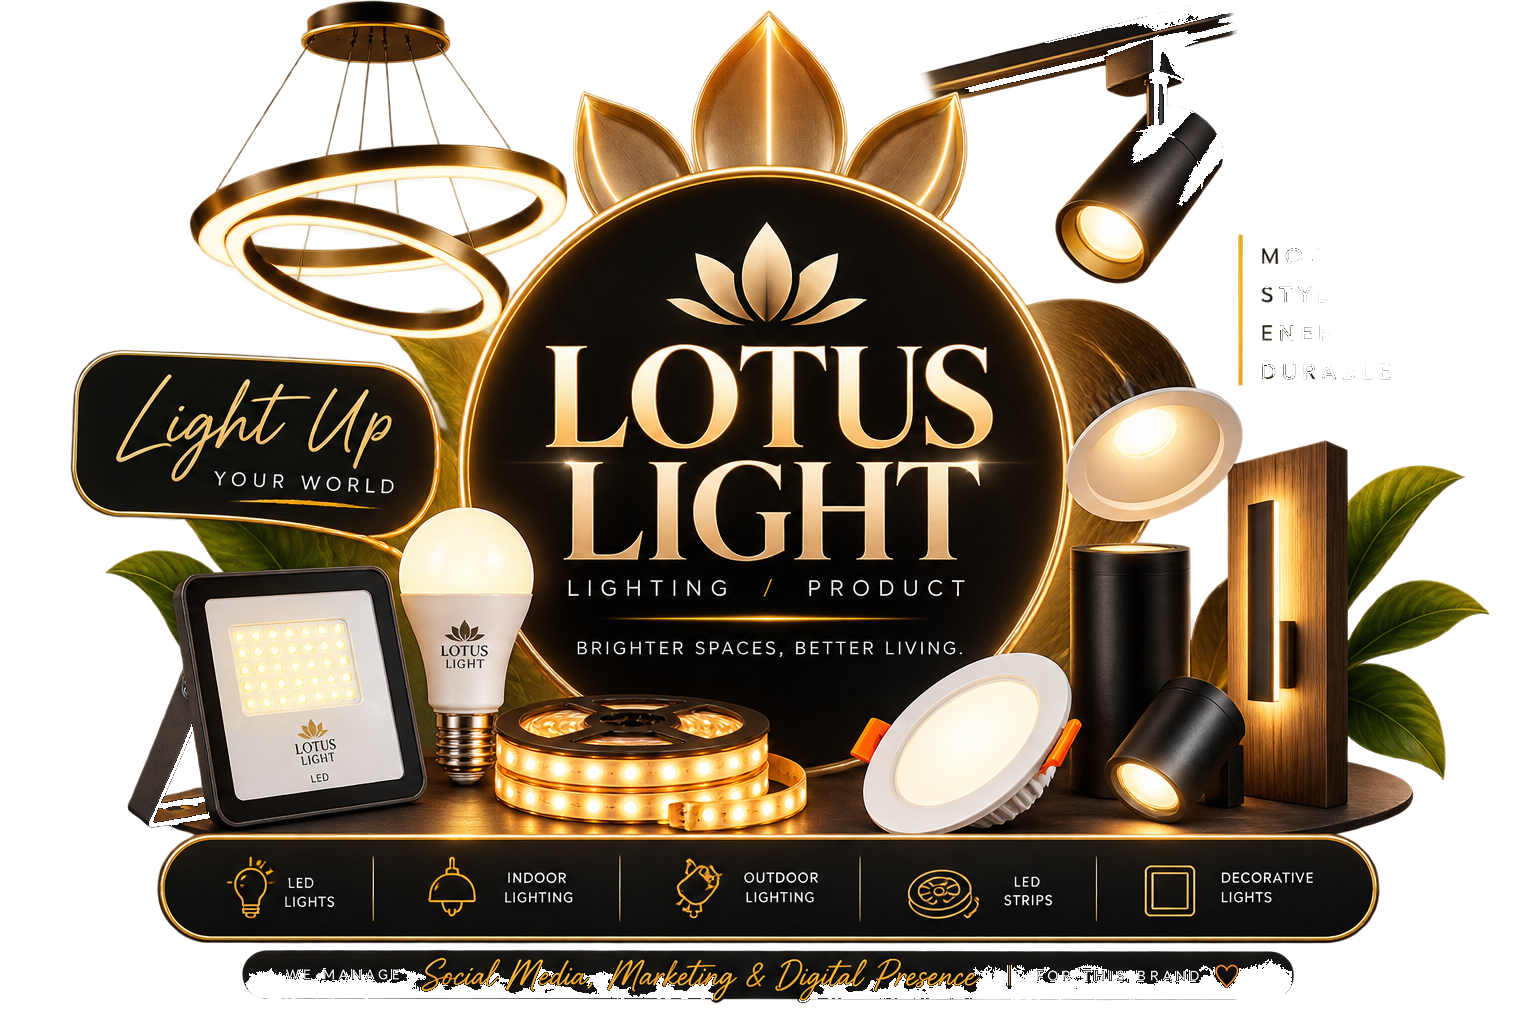
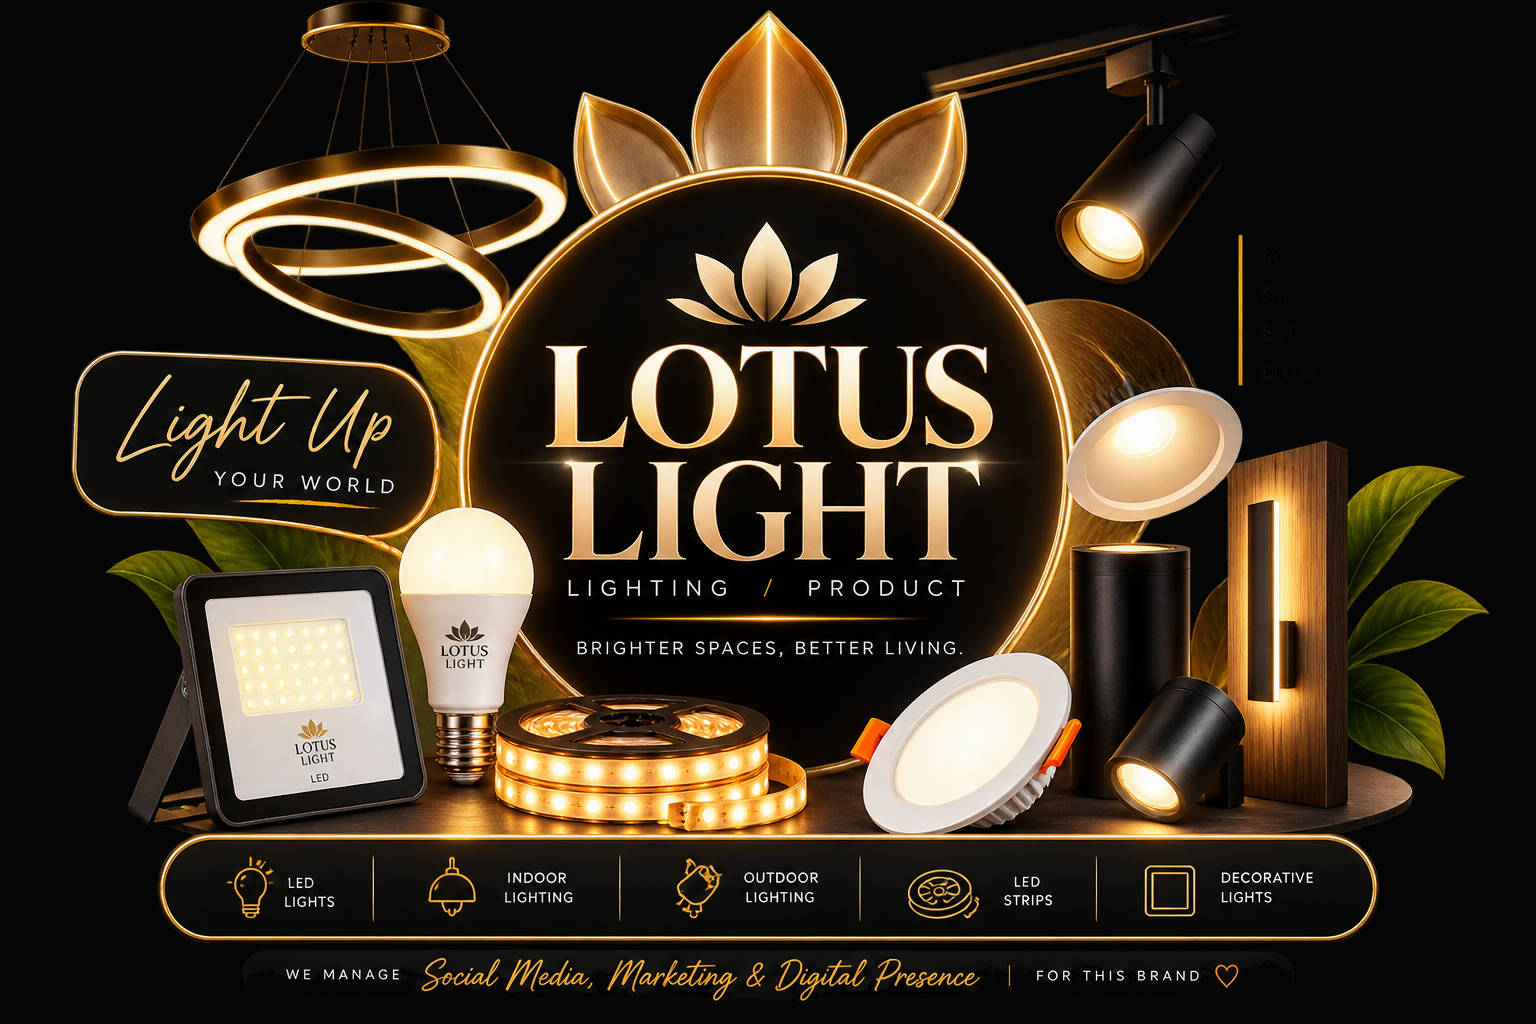
Give the live work cards a solid black background.
White fills were showing cut edges on production, so Stitch, Om Sai, and Lotus Light now sit on black in both the files and the card frames.

diff --git a/components/portfolio/WorkPageView.tsx b/components/portfolio/WorkPageView.tsx
@@ -31,11 +31,16 @@ export function WorkPageView() {
           {PORTFOLIO_PROJECTS.map((project, index) => (
             <Reveal key={project.id} delayMs={index * 40}>
               <Link href={`/work/${project.slug}`} className="group block">
-                <div className="relative aspect-[4/3] overflow-hidden rounded-2xl bg-surface">
+                <div
+                  className={`relative aspect-[4/3] overflow-hidden rounded-2xl ${
+                    isFramedProject(project) ? "border border-border bg-white" : "bg-surface"
+                  }`}
+                >
                   <Image
                     src={project.image}
                     alt={`Creative presentation for ${project.name}`}
                     fill
+                    unoptimized={isFramedProject(project)}
                     className={`${isFramedProject(project) ? "object-contain p-2" : "object-cover"} transition duration-500 group-hover:scale-[1.04]`}
                     sizes="(max-width: 640px) 100vw, (max-width: 1024px) 50vw, 33vw"
                   />

diff --git a/app/work/[slug]/page.tsx b/app/work/[slug]/page.tsx
@@ -53,13 +53,14 @@ export default async function WorkProjectPage({ params }: PageProps) {
 
       <section className="border-b border-border px-4 py-10 sm:px-6 lg:px-8">
         <div
-          className={`relative mx-auto aspect-[16/9] max-w-6xl ${isFramedProject(project) ? "bg-surface" : "img-frame"}`}
+          className={`relative mx-auto aspect-[16/9] max-w-6xl overflow-hidden rounded-2xl ${isFramedProject(project) ? "border border-border bg-white" : "img-frame"}`}
         >
           <Image
             src={project.image}
             alt={`Creative presentation for ${project.name}`}
             fill
-            className={isFramedProject(project) ? "object-contain p-6" : "object-cover"}
+            unoptimized={isFramedProject(project)}
+            className={`relative z-[1] ${isFramedProject(project) ? "object-contain p-6" : "object-cover"}`}
             sizes="100vw"
             priority
           />

diff --git a/components/portfolio/CaseStudyOverlay.tsx b/components/portfolio/CaseStudyOverlay.tsx
@@ -69,13 +69,14 @@ export function CaseStudyOverlay({ project, onClose }: CaseStudyOverlayProps) {
 
         <div className="overflow-y-auto">
           <div
-            className={`relative m-4 aspect-[16/9] sm:m-6 ${framed ? "bg-surface" : "img-frame"}`}
+            className={`relative m-4 aspect-[16/9] overflow-hidden rounded-2xl sm:m-6 ${framed ? "border border-border bg-white" : "img-frame"}`}
           >
             <Image
               src={project.image}
               alt={`Creative presentation for ${project.name}`}
               fill
-              className={framed ? "object-contain p-4" : "object-cover"}
+              unoptimized={framed}
+              className={`relative z-[1] ${framed ? "object-contain p-4" : "object-cover"}`}
               sizes="(max-width: 1024px) 100vw, 960px"
               priority
             />

diff --git a/components/PortfolioSection.tsx b/components/PortfolioSection.tsx
@@ -30,11 +30,16 @@ function ProjectCard({
       onClick={() => onOpen(project)}
       className="group flex h-full w-full flex-col text-left outline-none"
     >
-      <div className="relative aspect-[4/3] overflow-hidden rounded-2xl bg-surface">
+      <div
+        className={`relative aspect-[4/3] overflow-hidden rounded-2xl ${
+          framed ? "border border-border bg-white" : "bg-surface"
+        }`}
+      >
         <Image
           src={project.image}
           alt={`Creative presentation for ${project.name}`}
           fill
+          unoptimized={framed}
           className={`${framed ? "object-contain p-2" : "object-cover"} transition duration-500 group-hover:scale-[1.04]`}
           sizes="(max-width: 640px) 100vw, (max-width: 1024px) 50vw, 33vw"
         />
